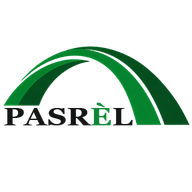
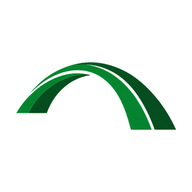
feat(marque): l arche seule sur la connexion, et les icones refaites
Le logo complet porte deja le mot : pose sur l ecran de connexion avec
« PASRÈL » ecrit juste en dessous, le nom apparaissait deux fois, et
reduit a 84 px le mot grave dans l image n etait plus lisible.

L arche seule resout les deux : elle ne porte pas le mot, donc le mot
peut etre ecrit a cote, et elle reste reconnaissable en petit.

Le fichier fourni est un carre de 288 ou l arche occupe la moitie haute.
Pose tel quel il flottait, donc deux derives, tous deux depuis l original
qui reste intact :

 - pasrel-arche-cadree.png, recadree au plus pres, pour l affichage en
   ligne ;
 - les trois icones d application, l arche recentree dans un carre, parce
   qu une forme large et courte collee en haut d une tuile se voit.

La plaque blanche sous l arche est assumee : un fichier au fond blanc
pose sur une banniere verte doit ressembler a une plaque, sinon il
ressemble a un autocollant.

Changed region(s): [[0.0, 0.2188, 1.0, 0.6875]]

diff --git a/components/CvzMark.tsx b/components/CvzMark.tsx
@@ -1,26 +1,43 @@
 import Image from "next/image";
 
 /**
- * Le logo PASRÈL, tel que fourni.
+ * La marque PASRÈL, telle que fournie.
  *
- * C'est le fichier du marchand de la marque, pas un dessin refait : il avait
- * d'abord été redessiné en SVG « au plus près », et le résultat n'était pas
- * le logo — les deux rubans de l'arche y étaient devenus deux filets
- * concentriques. Un logo se livre, il ne se réinterprète pas.
+ * Ce sont les fichiers du marchand de la marque, pas des dessins refaits :
+ * l'arche avait d'abord été redessinée en SVG « au plus près », et le
+ * résultat n'était pas le logo — ses deux rubans y étaient devenus deux
+ * filets concentriques. Un logo se livre, il ne se réinterprète pas.
  *
- * `public/pasrel-logo.png` est la source ; les trois icônes d'application à
- * côté en sont dérivées. Si le logo change, les quatre sont à refaire
- * ensemble.
+ * Deux fichiers, deux emplois :
+ *
+ *  - `pasrel-arche-cadree.png` : l'arche seule, sans le mot, recadrée au
+ *    plus près. Le fichier d'origine `pasrel-arche.png` est un carré où
+ *    l'arche occupe la moitié haute ; posée telle quelle, elle flottait. C'est le défaut, et
+ *    c'est ce qu'il faut partout où le mot est déjà écrit à côté — sinon le
+ *    nom apparaît deux fois. C'est aussi la seule version qui tienne en
+ *    petit : à 84 px, le mot gravé dans le logo complet n'est plus lisible.
+ *  - `pasrel-logo.png` : le logo complet, arche et mot. Pour les surfaces
+ *    qui n'ont rien d'autre autour, comme une image de partage.
+ *
+ * Les trois icônes d'application sont dérivées de l'arche, recentrée dans un
+ * carré : l'arche est large et courte, et posée telle quelle elle flottait
+ * en haut de la tuile.
  */
-export function CvzMark({ size = 72 }: { size?: number }) {
+export function CvzMark({
+  size = 72,
+  variante = "arche",
+}: {
+  size?: number;
+  variante?: "arche" | "complet";
+}) {
+  const complet = variante === "complet";
   return (
     <Image
-      src="/pasrel-logo.png"
+      src={complet ? "/pasrel-logo.png" : "/pasrel-arche-cadree.png"}
       alt="PASRÈL"
       width={size}
-      height={size}
+      height={complet ? size : Math.round(size * 0.465)}
       priority
-      className="rounded-[26px]"
     />
   );
 }

diff --git a/app/login/page.tsx b/app/login/page.tsx
@@ -4,6 +4,7 @@ import { LoginForm } from "@/components/LoginForm";
 import { LanguageToggle } from "@/components/LanguageToggle";
 import { hasSupabase } from "@/lib/data";
 import { Slogan } from "@/components/Slogan";
+import { Wordmark } from "@/components/Wordmark";
 
 // Écran de connexion (owner / agent).
 export default function LoginPage({
@@ -27,16 +28,19 @@ export default function LoginPage({
           </defs>
           <rect width="100%" height="100%" fill="url(#bubbles)" />
         </svg>
-        {/* Le logo porte déjà le mot : l'écrire une seconde fois en dessous le
-            donnait deux fois, et réduit à 84 px le mot gravé dans l'image
-            n'était plus lisible. Il est donc posé en grand, sur sa plaque
-            blanche — un fichier au fond blanc sur une bannière verte doit être
-            assumé comme une plaque, sinon il ressemble à un autocollant. */}
-        <div className="relative flex flex-col items-center gap-4">
-          <div className="rounded-[26px] bg-white px-5 py-3 shadow-[0_10px_30px_rgba(0,0,0,0.25)]">
-            <CvzMark size={132} />
+        {/* L'arche seule, pas le logo complet : celui-ci porte déjà le mot, et
+            l'écrire une seconde fois en dessous le donnait deux fois. La
+            plaque blanche est assumée — un fichier au fond blanc posé sur une
+            bannière verte doit ressembler à une plaque, sinon il ressemble à
+            un autocollant. */}
+        <div className="relative flex flex-col items-center gap-3.5">
+          <div className="rounded-[22px] bg-white px-5 py-4 shadow-[0_10px_30px_rgba(0,0,0,0.25)]">
+            <CvzMark size={128} />
           </div>
-          <Slogan className="text-center text-[13.5px] font-medium text-[#CFF5E7]" />
+          <div className="flex flex-col items-center gap-1 text-center">
+            <Wordmark tone="onBrand" className="text-[28px] font-extrabold tracking-tight text-white" />
+            <Slogan className="text-[13.5px] font-medium text-[#CFF5E7]" />
+          </div>
         </div>
       </div>
 
